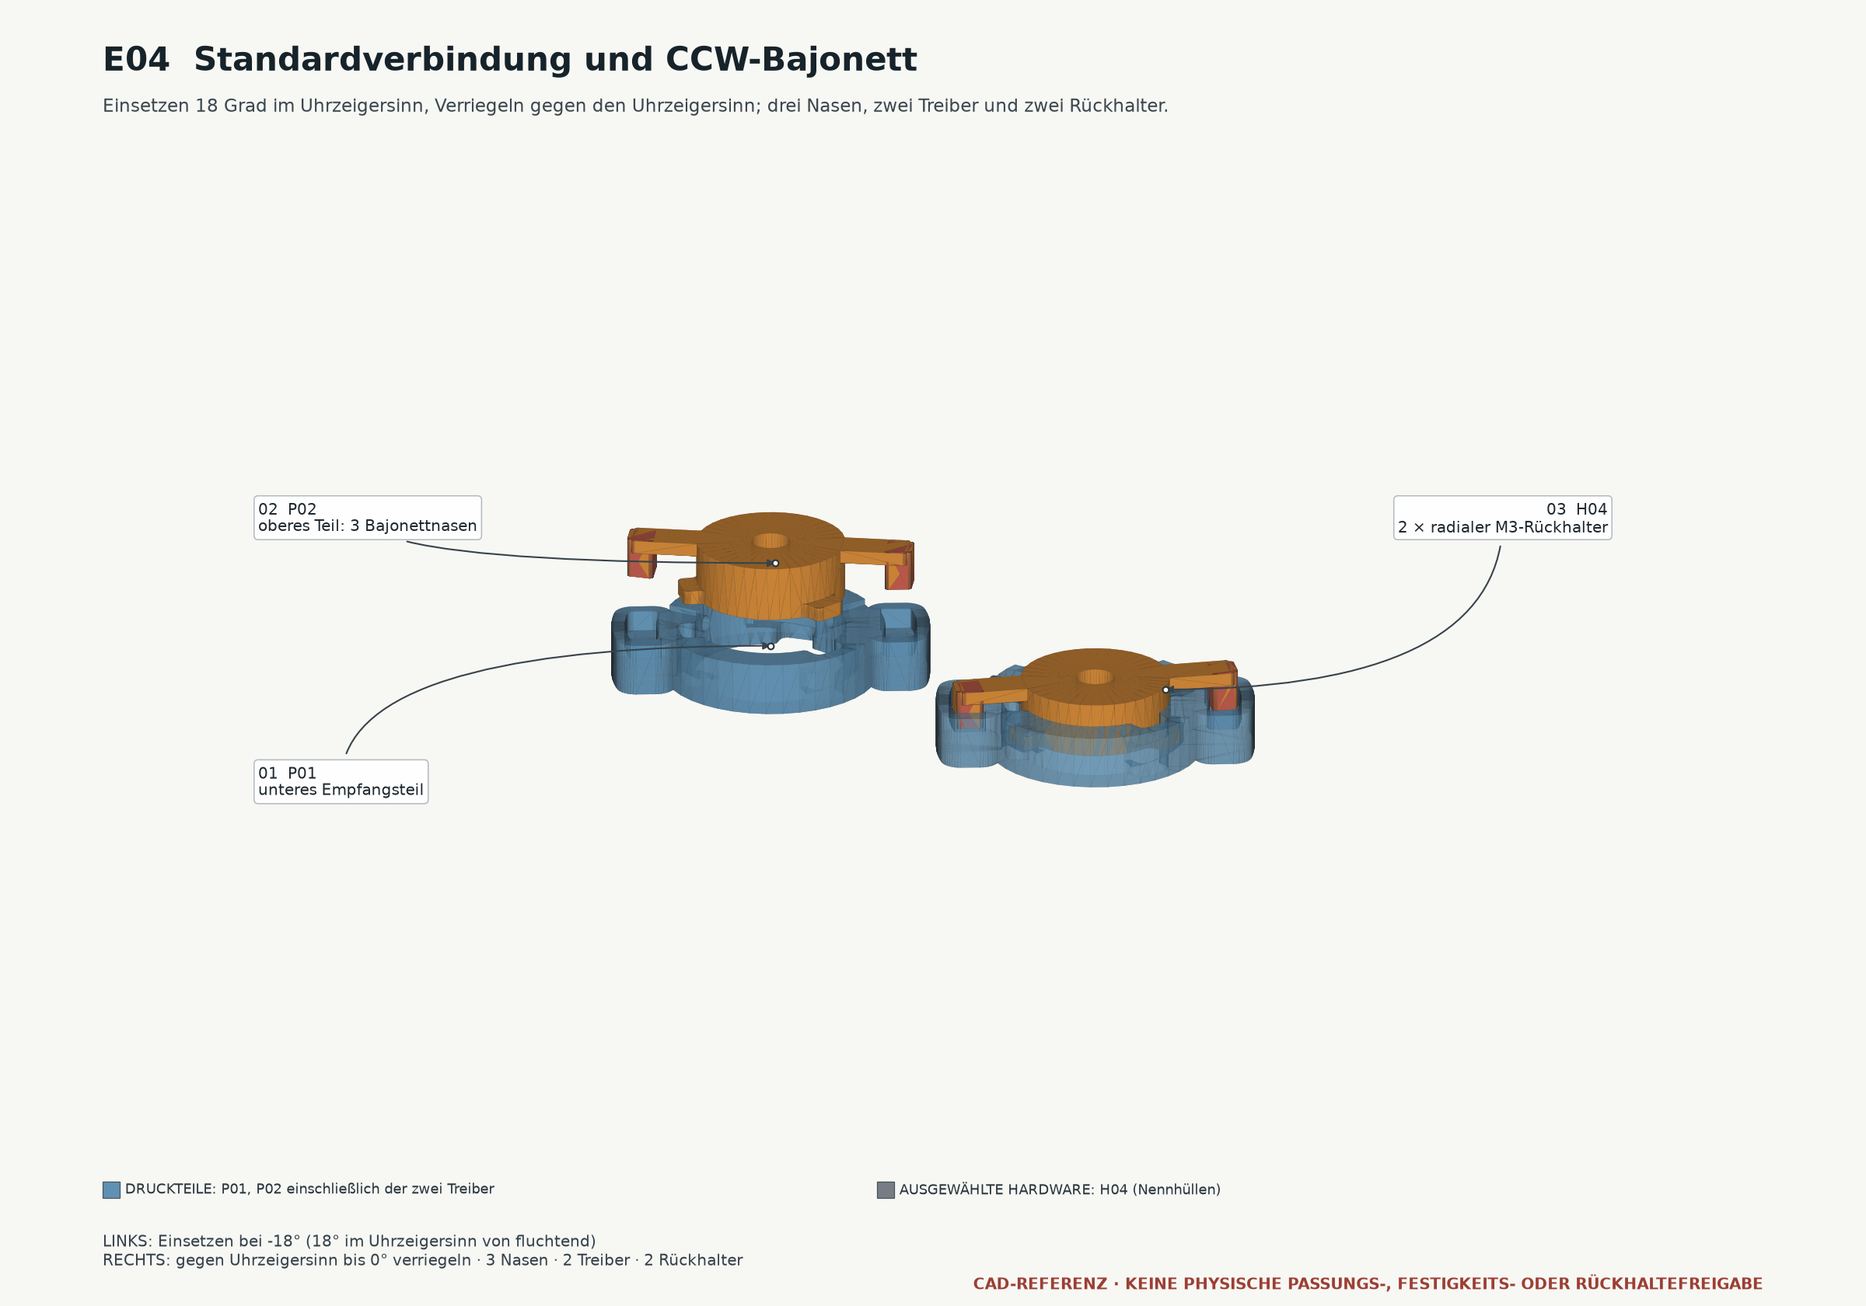
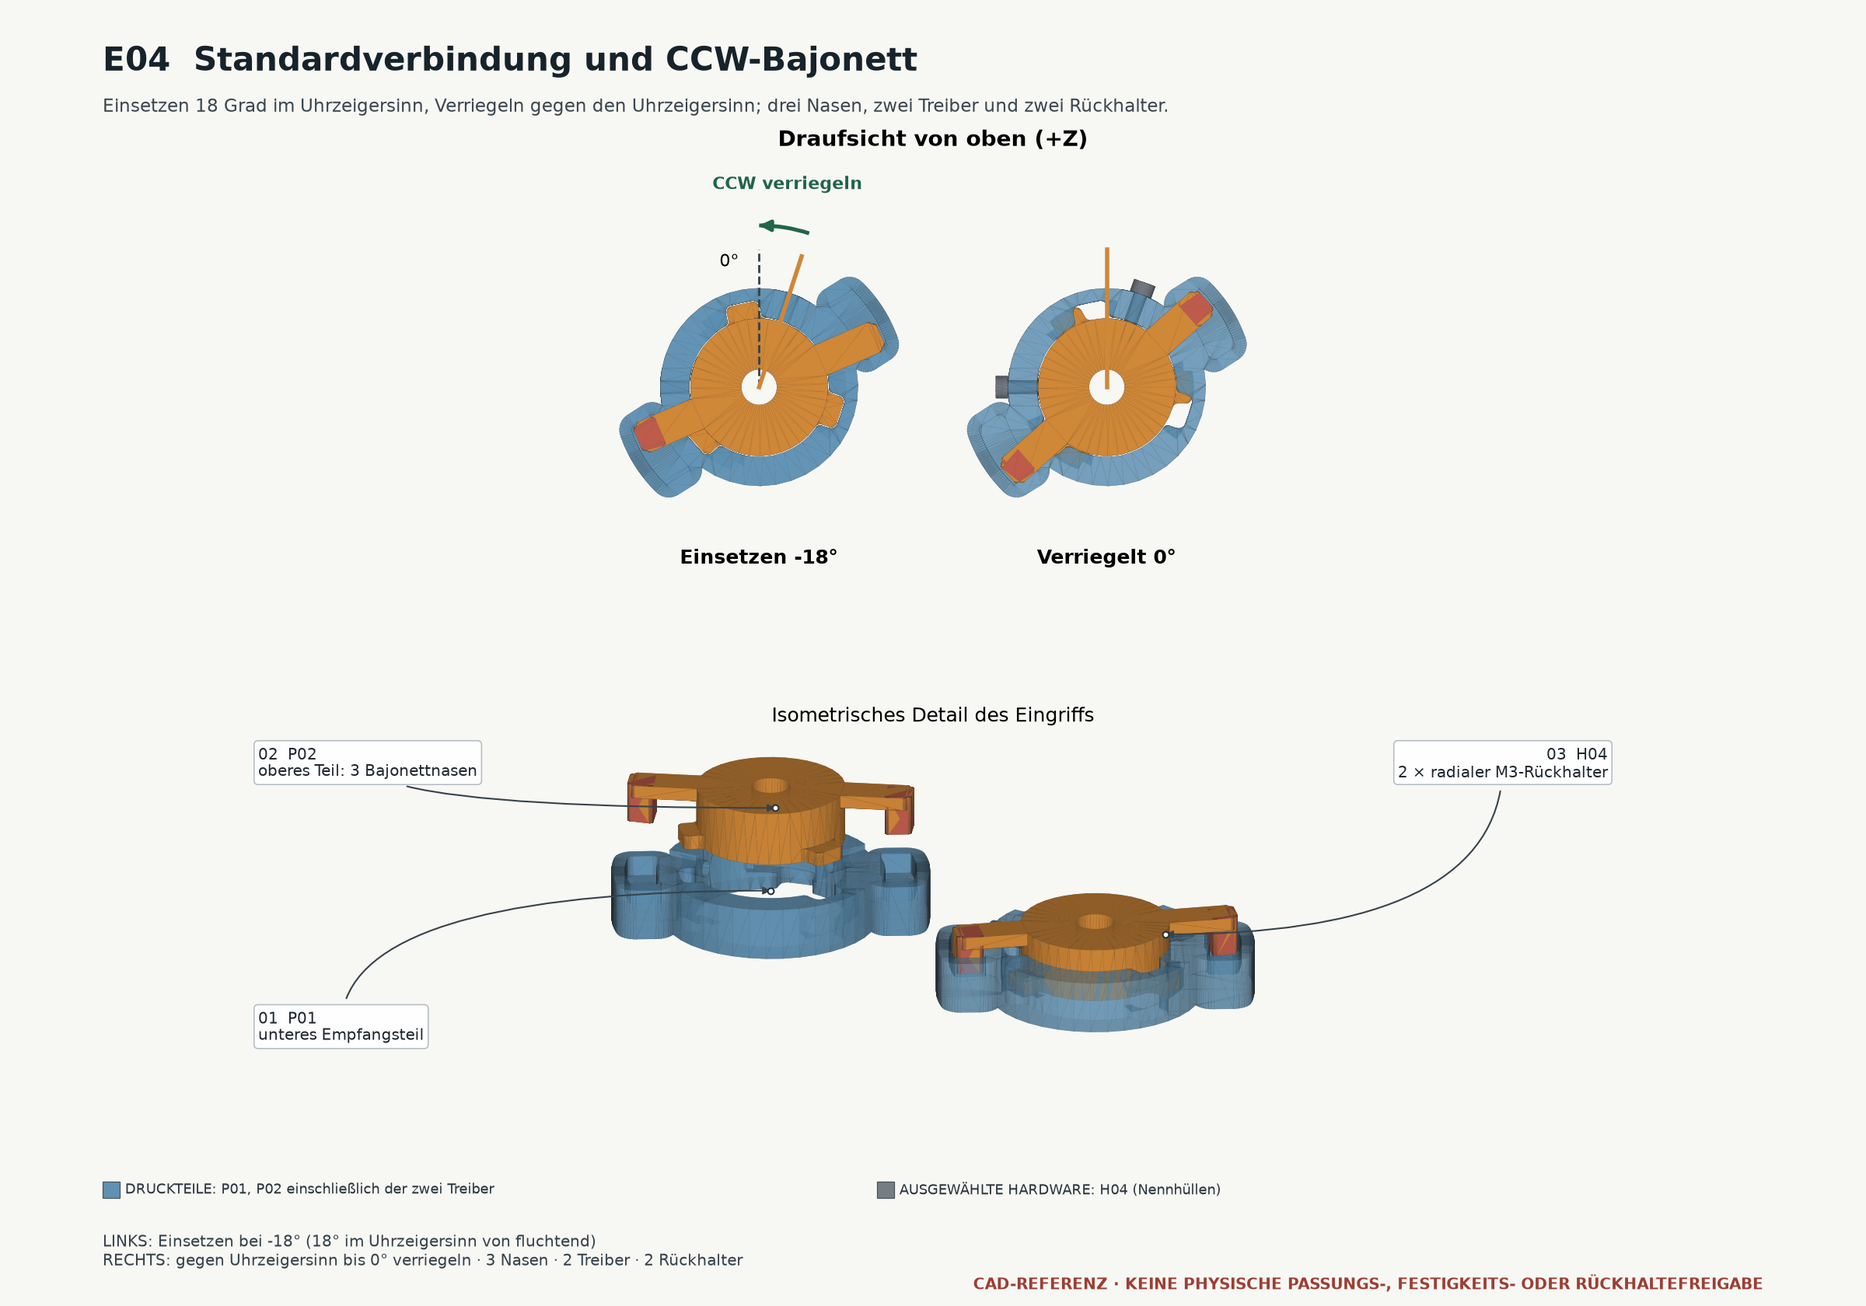
fix: clarify top-view locking and coil installation

diff --git a/scripts/manual/build_manual.py b/scripts/manual/build_manual.py
@@ -256,7 +256,7 @@ def _generator(doc, data, paths):
     ])
     _page(doc, '7 Magnete montieren und Polung prüfen', level=1)
     _figure(doc, 'E03', data, paths)
-    _paragraph(doc, 'P01 trägt den oberen Magnetring integriert; P05 ist der untere separate Rotor. Insgesamt werden 36 nominal 10 x 2 mm große Scheibenmagnete H10 benötigt, 18 je Rotor. Jede Scheibe vor Einbau auf Ausbrüche, Beschichtungsschäden, Durchmesser und Dicke prüfen.')
+    _paragraph(doc, 'Bauteile nach E03 trocken zuordnen: P01 trägt den oberen Magnetring integriert; P05 ist der untere separate Rotor. Insgesamt werden 36 nominal 10 x 2 mm große Scheibenmagnete H10 benötigt, 18 je Rotor. Jede Scheibe vor Einbau auf Ausbrüche, Beschichtungsschäden, Durchmesser und Dicke prüfen.')
     _paragraph(doc, 'Die modellierten Taschen sind 11 mm weit und 2 mm tief. Ein Magnetnennmaß von 10 mm garantiert weder einen geeigneten Klebespalt noch ausreichende Rückhaltung. Mit dem Coupon 10,8 / 11,0 / 11,2 mm die echte Druckpassung ermitteln und magnetischen Überstand mit Tiefenmaß dokumentieren.')
     _paragraph(doc, 'Neodym-Magnete können Finger einklemmen und beim Zusammenprall splittern. Schutzbrille tragen, einzelne Magnete mit nichtmagnetischen Abstandhaltern führen und Werkzeug sowie lose Metallteile fernhalten. Abstand zu empfindlicher Elektronik und medizinischen Implantaten gemäß Magnet- und Gerätehinweisen einhalten.', lead='Starke Magnete:')
     _paragraph(doc, 'H11 ist noch zu entwickeln: Kleber allein ist kein nachgewiesener Schutz gegen Ablösung und Fliehkraft. Klebstoffverträglichkeit, Aushärtung und eine formschlüssige Rückhaltung am Coupon prüfen; dabei einen vollständig abgeschirmten Versuch verwenden.', lead='Vor Rotation:')
@@ -315,12 +315,28 @@ def _winding(doc, data, paths):
     doc.add_heading('Längen und Widerstände vergleichbar erfassen', 2)
     _paragraph(doc, 'Für jede passende Spule Drahtlänge in Metern, gleich behandelte Anschlusslänge, DC-Widerstand und Messtemperatur erfassen. Bei kurzen dünnen Wicklungen den Messleitungswiderstand korrigieren. Werden Anschlussenden aus der Längenangabe ausgeschlossen, muss auch deren Widerstandsanteil getrennt behandelt werden.')
     _paragraph(doc, 'Spulennummer __________________  Drahtcharge __________________\nNennmaß ______ mm  Gemessen über Emaille ______ mm\nDrahtlänge gesamt ______ m  Davon Anschlussenden ______ m\nLängenmessverfahren __________________________________________\nPassungsbefund und Abbruchgrund _______________________________\n______________________________________________________________')
+    _page(doc, 'Testspule in den realen Wicklungsträger einsetzen')
+    _steps(doc, [
+        'Den realen Wicklungsträger reinigen und seine Kanten glätten. Seine Referenzhülle ist noch keine validierte Statorbefestigung. Geeignete Isolierfolie oder Isolierpapier zwischen gedruckte Kontaktflächen und Draht legen; die zusätzliche Dicke bei der Passung berücksichtigen.',
+        'Die gebundene Spule trocken und ohne Kraft einlegen. Bindung beibehalten und die Wicklung mit einer lösbaren Halterung gegen Wandern sichern. A1 und A2 zugentlasten und so ausführen, dass Leitungen, Bindung und Anschlüsse keine rotierenden Teile erreichen können.',
+        'Durchgang, DC-Widerstand und Isolation vor und nach dem Einsetzen prüfen und vergleichen. Eine zur Drahtisolation geeignete Isolationsprüfung gegen erreichbare leitfähige Trägerteile durchführen; Prüfspannung aus Material- und Messgerätedaten ableiten. Ein Multimeter-Durchgangstest allein weist keine Isolationsfestigkeit nach.',
+        'Maximale Einbauhöhe und beide realen Luftspalte nach E06 messen. Rotor gesichert eine volle Umdrehung von Hand bewegen und den kleinsten Freigang notieren. Bei Kontakt, Drahtquetschung oder Widerstandsänderung ausbauen und die Ursache beheben.',
+    ])
+    _paragraph(doc, 'Erste elektrische Versuche bleiben unvergossen. Die lösbare Fixierung muss die Testspule bereits sicher halten; fehlende Rückhaltung nicht durch einen frühen Verguss überdecken.', lead='Testzustand:')
+    doc.add_heading('Vergussversuch erst nach der Spulenauswahl', 2)
+    _steps(doc, [
+        'Ein elektrisch isolierendes Material mit geringer Reaktionswärme wählen, dessen Herstellerdaten Emaille, Druckwerkstoff und spätere Temperaturbelastung zulassen. Datenblatt und Sicherheitsdatenblatt beachten; Mischverhältnis, zulässige Füllmenge und Aushärtung nicht schätzen. Hinweise zu Reaktionswärme und Lufteinschlüssen siehe [S3].',
+        'Zuerst einen kleinen ausgehärteten Coupon mit demselben Druckwerkstoff, Draht und Isoliermaterial prüfen. Höchsttemperatur beim Härten und danach Verzug, Verträglichkeit und Isolation erfassen. Ein kleiner Coupon allein validiert keinen größeren Vergussblock.',
+        'Für den ersten Spulenversuch Rotoren ausbauen oder vollständig vom Füllraum trennen. Wicklung fixieren, Lager und Freigänge abdecken und die Füllhöhe markieren. Langsam kontrolliert füllen, Lufttaschen vermeiden und Füllvolumen/Temperatur protokollieren. Keine Harznase darf in den Rotorraum ragen.',
+        'Den Verguss vollständig nach Herstellerangaben aushärten lassen. Danach Maße, Isolation und Lasttemperatur erneut prüfen, einschließlich beider Luftspalte bei voller Handumdrehung. Erst nach bestandenem Vergleich einen weiteren strombegrenzten Lastversuch erlauben.',
+    ])
+    _paragraph(doc, 'Ein Vergussversuch ist keine nachgewiesene Magnet- oder Wicklungsrückhaltung. Er ersetzt weder Festigkeits- und Dauertests noch Lager-, Magnet- oder Außenbetriebsvalidierung. Eine bewährte Testspule bleibt ein Prototyp, bis diese Prüfungen separat abgeschlossen sind.')
 
 
 def _measurements(doc, data, paths):
     _page(doc, '9 Testspulen vergleichbar messen', level=1)
     _figure(doc, 'E10', data, paths)
-    _paragraph(doc, 'Alle Varianten bei gleicher Drehzahl, Magnetanordnung, Luftspalt und vergleichbarer Ausgangstemperatur messen. Spulennummer, tatsächliche Windungszahl, Drahtdurchmesser über Emaille, Messgerät und Messbereich aufzeichnen. Ein Leerlaufspannungswert allein ist kein Leistungsnachweis.')
+    _paragraph(doc, 'Messleitungen und Geräte nach E10 zuordnen. Alle Varianten bei gleicher Drehzahl, Magnetanordnung, Luftspalt und vergleichbarer Ausgangstemperatur messen. Spulennummer, tatsächliche Windungszahl, Drahtdurchmesser über Emaille, Messgerät und Messbereich aufzeichnen. Ein Leerlaufspannungswert allein ist kein Leistungsnachweis.')
     _steps(doc, [
         'Bei stillgesetztem Rotor isolierte Messleitungen verlegen und sichern. Drehzahlmarker befestigen, Schutzhaube schließen. Im Leerlauf das True-RMS-Voltmeter zwischen A1 und A2 anschließen; keine Batterie verwenden.',
         'Langsam auf eine vorher begrenzte Prüfdrehzahl bringen. Drehzahl, AC-Leerlaufspannung und elektrische Frequenz gemeinsam aufnehmen. Rotor mechanisch stillsetzen, bevor Leitungen oder Messbereiche umgesteckt werden.',
@@ -354,7 +370,7 @@ def _measurements(doc, data, paths):
 def _rotor(doc, data, paths):
     _page(doc, '10 Sieben Stufen montieren', level=1)
     _figure(doc, 'E01', data, paths)
-    _paragraph(doc, 'Von unten nach oben folgen Basis P01, fünf identische P02 und Top P03. P04 schließt oben ab. Vor dem Stapeln alle sechs Nahtstellen mit Coupons erproben; nur saubere, unbeschädigte Fügeteile verwenden.')
+    _paragraph(doc, 'Nach E01 folgen von unten nach oben Basis P01, fünf identische P02 und Top P03. P04 schließt oben ab. Vor dem Stapeln alle sechs Nahtstellen mit Coupons erproben; nur saubere, unbeschädigte Fügeteile verwenden.')
     _steps(doc, [
         'Die Basis auf der geraden M8-Stange und einer stabilen Montagehilfe ausrichten. Generatorteile gegen unkontrollierte Magnetkräfte sichern. Blätter nicht als Schraubstockflächen oder Hebel verwenden.',
         'Ein P02 auf die Welle führen, Einsetzstellung gemäß E04 wählen, bis zum vollständigen Eingriff absenken und gegen den Uhrzeigersinn verriegeln. Nach jeder Stufe Sitz und Freigang prüfen.',
@@ -375,7 +391,7 @@ def _rotor(doc, data, paths):
     _page(doc, '11 Top Klemmung und Abschluss', level=1)
     _figure(doc, 'E05', data, paths)
     _steps(doc, [
-        'Vor P04 die obere H03-Scheibe eben auf ihre vorgesehene Auflage setzen. H02 zugänglich aufschrauben und mit passendem Werkzeug gegenhalten. Die Kraft darf nicht über Blattkanten oder Abdeckung laufen.',
+        'Klemmteile nach E05 zuordnen. Vor P04 die obere H03-Scheibe eben auf ihre vorgesehene Auflage setzen. H02 zugänglich aufschrauben und mit passendem Werkzeug gegenhalten. Die Kraft darf nicht über Blattkanten oder Abdeckung laufen.',
         'Den vollständig gesetzten Stack vorsichtig mit M8 klemmen. Es gibt kein validiertes Anzugsdrehmoment für diese PLA-Konstruktion. Nicht nach einem Stahl-Schraubentabellenwert anziehen; bei Verformung, Knacken oder blockiertem Lager sofort lösen und untersuchen.',
         'Rundlauf an Welle, Magnetflächen und Rotorumfang messen. Welle über eine volle Umdrehung von Hand bewegen und kleinsten Spalt protokollieren. Nach der Klemmung muss die Lagerung weiterhin frei laufen.',
         'P04 aufsetzen und mit zwei H05 lösbar befestigen. Die Abdeckung übernimmt keine M8-Klemmkraft. Werkzeugzugang und spätere Demontage kontrollieren; die M8-Stange darf nicht gegen den Deckel drücken.',
@@ -496,6 +512,9 @@ def _records_and_sources(doc, data):
     doc.add_heading('S2 Morningstar Corporation', 2)
     _paragraph(doc, 'Diversion Charge Control Manual, besonders Abschnitte 6.4.4 und 6.4.5. Die Last muss Quellenenergie aufnehmen können und gleichzeitig innerhalb der Reglergrenzen bleiben. Die dortigen TriStar-Beispiele sind gerätespezifisch und dürfen nicht ungeprüft auf dieses System übertragen werden.')
     _paragraph(doc, 'https://www.morningstarcorp.com/wp-content/uploads/technical-doc-diversion-manual-en.pdf')
+    doc.add_heading('S3 MG Chemicals', 2)
+    _paragraph(doc, 'Epoxy Encapsulating and Potting Compounds. Herstellerhinweise zu langsamem Einfüllen, Vermeidung von Lufteinschlüssen und Reaktionswärme. Produktbezogene Misch- oder Härtetemperaturen werden für diesen PLA-Prototyp nicht übernommen; das konkrete Datenblatt und der Coupon entscheiden.')
+    _paragraph(doc, 'https://mgchemicals.com/downloads/pdf/epoxy-catalog.pdf')
     doc.add_heading('Vor der ersten Batterieverbindung ergänzen', 2)
     _paragraph(doc, 'Batteriehersteller und Typ ________________________________________\nBatteriehandbuch und Revision ___________________________________\nReglermodell und Handbuch ______________________________________\nGleichrichter und Kühlkonzept ____________________________________\nSchutzorgane und Leitungsbemessung _____________________________\nDump Load und sichere Wärmeabfuhr ______________________________\nGeprüfter Anschlussplan ________________________________________')
     _paragraph(doc, 'Solange diese Auswahl und die mechanischen Prüfungen offen sind, bleibt die Entwicklung beim geschützten Messaufbau mit definierter Last. Generator nicht direkt mit dem Akku verbinden.')

diff --git a/scripts/manual/cad_figures.py b/scripts/manual/cad_figures.py
@@ -174,13 +174,17 @@ def _draw_geometry(
     parts: Sequence[_RenderPart],
     *,
     horizontal_margin: float = 0.62,
+    top_view: bool = False,
 ) -> tuple[float, float, float, float]:
     """Tessellate real solids, globally depth-sort triangles, and draw them."""
 
     from matplotlib.collections import PolyCollection
     from matplotlib.colors import to_rgb
 
-    view, right, up = _projection_basis()
+    if top_view:
+        right, up, view = np.eye(3)
+    else:
+        view, right, up = _projection_basis()
     polygons: list[np.ndarray] = []
     depths: list[np.ndarray] = []
     colors: list[np.ndarray] = []
@@ -595,6 +599,40 @@ def _add_sheet_text(fig, drawing_id: str, drawing: dict, notes: Sequence[str]) -
     )
 
 
+def _draw_e04_top_view(fig, parts: Sequence[_RenderPart]) -> None:
+    """Project the same two CAD states along +Z with positive CCW in XY."""
+
+    from matplotlib.patches import Arc
+
+    ax = fig.add_axes((0.12, 0.555, 0.76, 0.325))
+    ax.set_gid('E04-top-plan')
+    ax.set_facecolor('#f7f7f4')
+    _draw_geometry(ax, parts, horizontal_margin=0.12, top_view=True)
+    ax.set_ylim(-48, 57)
+    ax.set_title('Draufsicht von oben (+Z)', fontsize=10, fontweight='bold', pad=5)
+    angle = DEFAULT_PARAMETERS.bayonet.insertion_offset_deg
+    for center_x, rotation, label in (
+        (-43.0, -angle, f'Einsetzen -{angle:g}°'),
+        (43.0, 0.0, 'Verriegelt 0°'),
+    ):
+        # The +Y marker denotes the same locked-frame zero in both panels.
+        ax.plot([center_x, center_x], [0, 34], '--', color='#344149', linewidth=1.0)
+        theta = radians(90 + rotation)
+        ax.plot([center_x, center_x + 34 * cos(theta)], [0, 34 * sin(theta)],
+                color=_ROTATING, linewidth=2.0)
+        ax.text(center_x, -40, label, ha='center', va='top', fontsize=9, fontweight='bold')
+    ax.text(-48, 31, '0°', ha='right', va='center', fontsize=8)
+    center_x, radius = -43.0, 40.0
+    ax.add_patch(Arc((center_x, 0), 2 * radius, 2 * radius,
+                     theta1=90 - angle, theta2=90, color='#1f654b', linewidth=1.8))
+    before_tip = radians(87)
+    ax.annotate('', xy=(center_x, radius),
+                xytext=(center_x + radius * cos(before_tip), radius * sin(before_tip)),
+                arrowprops={'arrowstyle': '-|>', 'color': '#1f654b', 'lw': 1.8})
+    ax.text(center_x + 7, 49, 'CCW verriegeln', ha='center', fontsize=8,
+            fontweight='bold', color='#1f654b')
+
+
 def _save_standard_figure(path: Path, drawing_id: str, drawing: dict, parts, leaders, notes) -> None:
     import matplotlib.pyplot as plt
 
@@ -612,7 +650,12 @@ def _save_standard_figure(path: Path, drawing_id: str, drawing: dict, parts, lea
         grow_inward=drawing_id in {'E04', 'E05'},
     )
     _add_sheet_text(fig, drawing_id, drawing, notes)
-    fig.subplots_adjust(left=0.035, right=0.965, top=0.895, bottom=0.11)
+    if drawing_id == 'E04':
+        fig.subplots_adjust(left=0.035, right=0.965, top=0.50, bottom=0.13)
+        ax.set_title('Isometrisches Detail des Eingriffs', fontsize=9, pad=5)
+        _draw_e04_top_view(fig, parts)
+    else:
+        fig.subplots_adjust(left=0.035, right=0.965, top=0.895, bottom=0.11)
     fig.savefig(path, dpi=200, facecolor=fig.get_facecolor(), metadata={'Software': 'Windwall CAD manual renderer'})
     plt.close(fig)
 

diff --git a/tests/test_manual_cad_figures.py b/tests/test_manual_cad_figures.py
@@ -4,6 +4,7 @@ import unittest
 from pathlib import Path
 from unittest.mock import patch
 
+import cadquery as cq
 from PIL import Image
 
 from scripts.manual import cad_figures
@@ -15,6 +16,43 @@ PROJECT_ROOT = Path(__file__).resolve().parents[1]
 
 
 class ManualCadFigureTests(unittest.TestCase):
+    def test_e04_includes_true_top_view_and_locking_states(self):
+        import matplotlib.pyplot as plt
+        from matplotlib.figure import Figure
+        from scripts.manual.manual_data import load_manual_data
+
+        parts, leaders, notes = cad_figures._scene_e04()
+        drawing = load_manual_data(PROJECT_ROOT)['drawings']['E04']
+        with patch.object(Figure, 'savefig'), patch.object(plt, 'close'):
+            cad_figures._save_standard_figure(
+                Path('unused.png'), 'E04', drawing, parts, leaders, notes,
+            )
+            figure = plt.gcf()
+        try:
+            self.assertGreaterEqual(len(figure.axes), 2,
+                                    'E04 needs a separate true top-plan CAD inset')
+            labels = '\n'.join(text.get_text() for text in figure.findobj(match=plt.Text))
+            for label in ('Draufsicht von oben (+Z)', 'Einsetzen -18°',
+                          'Verriegelt 0°', 'CCW verriegeln'):
+                self.assertIn(label, labels)
+        finally:
+            plt.close(figure)
+
+    def test_top_projection_uses_xy_without_z_skew(self):
+        import matplotlib.pyplot as plt
+
+        figure, axes = plt.subplots()
+        part = cad_figures._RenderPart(cq.Workplane('XY').box(20, 40, 90), '#777777')
+        try:
+            try:
+                bounds = cad_figures._draw_geometry(axes, [part], top_view=True)
+            except TypeError:
+                self.fail('CAD drawing does not yet support true +Z projection')
+            for actual, expected in zip(bounds, (-10, 10, -20, 20)):
+                self.assertAlmostEqual(actual, expected, places=5)
+        finally:
+            plt.close(figure)
+
     def test_missing_rendered_leader_is_rejected(self):
         def scene(*bom_ids):
             leaders = [cad_figures._Leader(bom_id, (0.0, 0.0, 0.0)) for bom_id in bom_ids]

diff --git a/tests/test_manual_document.py b/tests/test_manual_document.py
@@ -167,6 +167,25 @@ class ManualDocumentTests(unittest.TestCase):
                        'Stromgrenze vor dem Drehen dokumentieren'):
             self.assertTrue(phrase in self.text, f'Missing current-limit instruction: {phrase}')
 
+    def test_coil_placement_and_later_potting_have_separate_validation_gates(self):
+        for phrase in ('Testspule in den realen Wicklungsträger einsetzen',
+                       'gebundene Spule trocken und ohne Kraft',
+                       'A1 und A2 zugentlasten',
+                       'vor und nach dem Einsetzen',
+                       'eine volle Umdrehung von Hand',
+                       'Erste elektrische Versuche bleiben unvergossen',
+                       'Vergussversuch erst nach der Spulenauswahl',
+                       'geringer Reaktionswärme', 'kleinen ausgehärteten Coupon',
+                       'vollständig nach Herstellerangaben aushärten',
+                       'Maße, Isolation und Lasttemperatur erneut prüfen',
+                       'keine nachgewiesene Magnet- oder Wicklungsrückhaltung'):
+            self.assertTrue(phrase in self.text, f'Missing winding workflow gate: {phrase}')
+
+    def test_every_drawing_is_referenced_in_instructional_prose(self):
+        prose = '\n'.join(p.text for p in self.doc.paragraphs if p.style.name == 'Normal')
+        for number in range(1, 12):
+            self.assertIn(f'E{number:02}', prose)
+
     def test_tables_have_borders_repeating_headers_and_no_fixed_height(self):
         self.assertGreaterEqual(len(self.doc.tables), 4)
         for table in self.doc.tables:

diff --git a/assets/manual/README.md b/assets/manual/README.md
@@ -9,6 +9,9 @@ physical construction parts. Their original layout is retained so the shared
 
 The snapshot was captured from the assembly-manual worktree after commits
 `e0eeb61` and `dd9bba1`. The drawings remain high-resolution 2400 × 1680 PNGs.
+E04 was subsequently regenerated with a true +Z top-plan comparison of the same
+insertion/locked CAD states, retaining the isometric engagement detail. Its
+direction labels show insertion at -18 degrees, the locked zero and a CCW arrow.
 The DOCX builder always reads this snapshot; local ignored build/output files do
 not override it. Missing assets produce a clear error instead of invoking CAD
 inside the document runtime.
